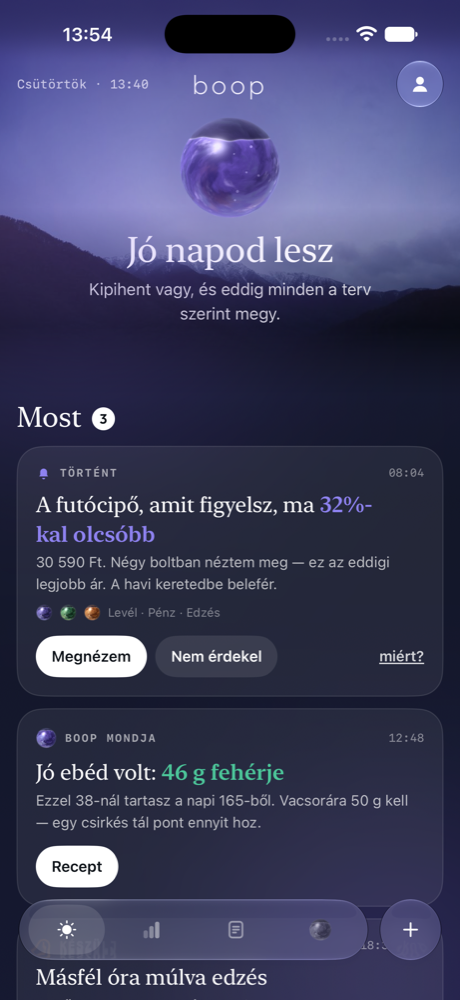
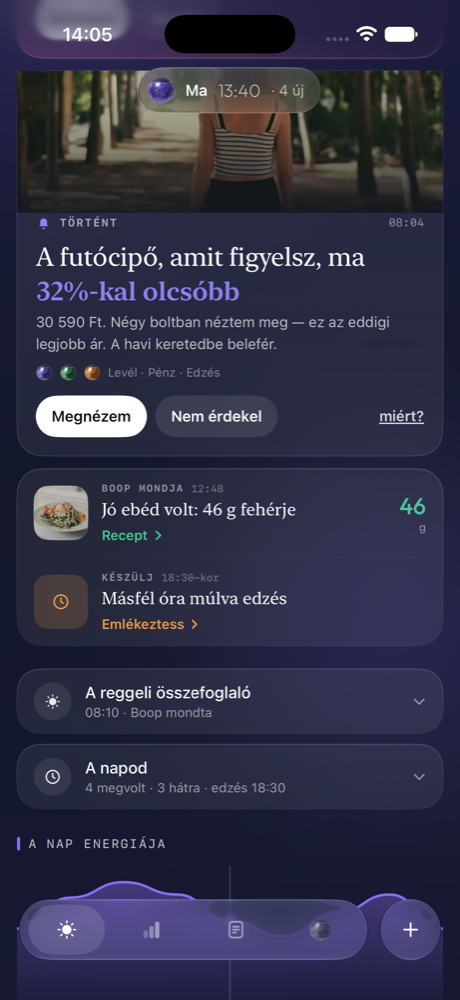
docs(boop-life): the wall gets a hierarchy — hero with a photo band, quiet compact rows (mezo-r36n9.33)
Owner: 'lista felsorolás feeling, nincs meg az a prémium feelingem'. Three measurable causes:
every card had the same width, radius and structure; none carried a photo although Képek
variant B allows a band on a proposal card; and the type had no range.

Now three weights: the check-in keeps its question shape · ONE hero with a 136 pt photo band
of the thing and 25 pt serif · the rest as compact rows inside a single card (52 pt thumbnail,
two lines, the number in weight on the right, the action as an inline link). A card whose
subject has no fitting photo keeps a tinted glyph tile.

diff --git a/docs/design_2.0/prototypes/boop-ios-spike/BoopSpike/EletFeed.swift b/docs/design_2.0/prototypes/boop-ios-spike/BoopSpike/EletFeed.swift
@@ -43,6 +43,12 @@ struct EFeedCard: Identifiable {
     let primary: String?      // the one action
     let secondary: String?
     let settled: String       // the line it leaves behind in "Ma történt"
+    /// Képek variant B: a photo of the THING. nil where nothing fits — a near-miss photo is worse than none.
+    var photo: String? = nil
+    var photoSq: String? = nil
+    /// When the card IS a number, the number gets the weight instead of hiding inside the sentence.
+    var big: String? = nil
+    var bigUnit: String = ""
     var hue: Color { areas.first.map { EMetric.all[$0].glow } ?? EMetric.all[0].glow }
 
     /// What Boop has to say at 13:40 on this invented day.
@@ -56,12 +62,14 @@ struct EFeedCard: Identifiable {
                   text: "A futócipő, amit figyelsz, ma *32%-kal olcsóbb*",
                   sub: "30 590 Ft. Négy boltban néztem meg — ez az eddigi legjobb ár. A havi keretedbe belefér.",
                   areas: [6, 5, 2], primary: "Megnézem", secondary: "Nem érdekel",
-                  settled: "Futócipő · megnézted"),
+                  settled: "Futócipő · megnézted",
+                  photo: "nap-seta-sq.jpg", photoSq: "nap-seta-sq.jpg", big: "30 590", bigUnit: "Ft"),
         EFeedCard(id: "ebed", kind: .reakcio, when: "12:48",
                   text: "Jó ebéd volt: *46 g fehérje*",
                   sub: "Ezzel 38-nál tartasz a napi 165-ből. Vacsorára 50 g kell — egy csirkés tál pont ennyit hoz.",
                   areas: [3], primary: "Recept", secondary: nil,
-                  settled: "Ebéd · 46 g fehérje"),
+                  settled: "Ebéd · 46 g fehérje",
+                  photo: "csirke-sq.jpg", photoSq: "csirke-sq.jpg", big: "46", bigUnit: "g"),
         EFeedCard(id: "edzes", kind: .keszulj, when: "18:30-kor",
                   text: "Másfél óra múlva edzés",
                   sub: "Felsőtest, 75 perc. Egyél valamit 17:00 körül, különben éhesen kezdesz.",
@@ -71,7 +79,8 @@ struct EFeedCard: Identifiable {
                   text: "Spar · *8 240 Ft*",
                   sub: "A banki üzenetedből, magától. Élelmiszer — a havi kereted 64%-ánál jársz.",
                   areas: [5], primary: nil, secondary: nil,
-                  settled: "Spar · 8 240 Ft"),
+                  settled: "Spar · 8 240 Ft",
+                  photo: "salata-sq.jpg", photoSq: "salata-sq.jpg", big: "8 240", bigUnit: "Ft"),
     ]
 }
 
@@ -83,6 +92,17 @@ struct EFeedCardView: View {
 
     var body: some View {
         VStack(alignment: .leading, spacing: 0) {
+            if let ph = c.photo, c.kind != .checkin {
+                Color.clear.frame(height: 136)
+                    .overlay { photo(ph).resizable().scaledToFill().saturation(0.8).brightness(-0.06) }
+                    .clipped()
+                    .overlay(LinearGradient(stops: [
+                        .init(color: .clear, location: 0),
+                        .init(color: gBase.opacity(0.35), location: 0.55),
+                        .init(color: Color(hex: 0x15181E).opacity(0.95), location: 1),
+                    ], startPoint: .top, endPoint: .bottom))
+                    .padding(.horizontal, -18).padding(.top, -18).padding(.bottom, 2)
+            }
             HStack(spacing: 8) {
                 if c.kind == .reakcio {
                     StillOrb(colors: EMetric.all[0].orb, size: 20, level: 0.85)
@@ -95,7 +115,7 @@ struct EFeedCardView: View {
                 Text(c.when).font(AuraFont.mono(11)).foregroundStyle(.white.opacity(0.45))
             }
 
-            EHueText(text: c.text, hue: c.hue, size: 21, opacity: 1, serif: true)
+            EHueText(text: c.text, hue: c.hue, size: c.photo != nil ? 25 : 21, opacity: 1, serif: true)
                 .padding(.top, 10)
 
             Text(c.sub).font(.system(size: 14)).lineSpacing(4).foregroundStyle(.white.opacity(0.7))
@@ -185,4 +205,62 @@ struct EFoldRow<C: View>: View {
         }
         .gCard(22)
     }
+}
+
+
+/// The quiet half of the wall: one hero above, these below — thumbnail, two lines, the number in weight.
+struct EFeedRowView: View {
+    let c: EFeedCard
+    var onAct: (String) -> Void
+
+    var body: some View {
+        HStack(spacing: 13) {
+            ZStack {
+                if let ph = c.photoSq {
+                    RoundedRectangle(cornerRadius: 14, style: .continuous).fill(.white.opacity(0.08))
+                        .overlay { photo(ph).resizable().scaledToFill().saturation(0.8).brightness(-0.06) }
+                        .clipShape(RoundedRectangle(cornerRadius: 14, style: .continuous))
+                        .overlay(RoundedRectangle(cornerRadius: 14, style: .continuous).stroke(.white.opacity(0.12)))
+                } else {
+                    RoundedRectangle(cornerRadius: 14, style: .continuous).fill(c.hue.opacity(0.18))
+                    EGlyph(c.kind.glyph, c.hue, size: 18)
+                }
+            }
+            .frame(width: 52, height: 52)
+
+            VStack(alignment: .leading, spacing: 4) {
+                HStack(spacing: 7) {
+                    Text(c.kind.label).font(AuraFont.mono(9.5, .bold)).tracking(1.3)
+                        .foregroundStyle(.white.opacity(0.5))
+                    Text(c.when).font(AuraFont.mono(10)).foregroundStyle(.white.opacity(0.35))
+                    Spacer(minLength: 0)
+                }
+                Text(stripped(c.text)).font(AuraFont.serif(16.5)).foregroundStyle(.white)
+                    .lineLimit(2).fixedSize(horizontal: false, vertical: true)
+                if let p = c.primary {
+                    Button { onAct(c.settled) } label: {
+                        HStack(spacing: 5) {
+                            Text(p).font(.system(size: 13, weight: .semibold)).foregroundStyle(c.hue)
+                            Image(systemName: "chevron.right").font(.system(size: 10, weight: .bold)).foregroundStyle(c.hue)
+                        }
+                        .padding(.top, 3).contentShape(Rectangle())
+                    }
+                    .buttonStyle(.plain)
+                }
+            }
+
+            Spacer(minLength: 6)
+
+            if let b = c.big {
+                VStack(alignment: .trailing, spacing: 0) {
+                    Text(b).font(.custom("Outfit", size: 22).weight(.medium)).foregroundStyle(c.hue)
+                        .lineLimit(1).minimumScaleFactor(0.7)
+                    Text(c.bigUnit).font(.system(size: 11)).foregroundStyle(.white.opacity(0.5))
+                }
+            }
+        }
+        .padding(.vertical, 13)
+    }
+
+    private func stripped(_ t: String) -> String { t.replacingOccurrences(of: "*", with: "") }
 }

diff --git a/docs/design_2.0/prototypes/boop-ios-spike/BoopSpike/EletMa.swift b/docs/design_2.0/prototypes/boop-ios-spike/BoopSpike/EletMa.swift
@@ -244,16 +244,36 @@ struct EletMa: View {
                 }
                 .padding(18).frame(maxWidth: .infinity, alignment: .leading).gCard(24)
             } else {
-                ForEach(live) { c in
-                    EFeedCardView(c: c) { line in
-                        withAnimation(.spring(response: 0.45, dampingFraction: 0.85)) {
-                            if line == "Rendben, most nem" { dismissed.insert(c.id) } else { acted[c.id] = line }
+                // the check-in is its own shape; then ONE hero with a photo band; then the quiet ones
+                // in a single card — a wall, not five equal boxes
+                if let q = live.first(where: { $0.kind == .checkin }) {
+                    EFeedCardView(c: q) { act(q, $0) }
+                }
+                let rest = live.filter { $0.kind != .checkin }
+                if let hero = rest.first {
+                    EFeedCardView(c: hero) { act(hero, $0) }
+                }
+                if rest.count > 1 {
+                    VStack(spacing: 0) {
+                        ForEach(Array(rest.dropFirst().enumerated()), id: \.element.id) { i, c in
+                            if i > 0 {
+                                Rectangle().fill(.white.opacity(0.07)).frame(height: 0.5).padding(.leading, 65)
+                            }
+                            EFeedRowView(c: c) { act(c, $0) }
                         }
-                        onToast(line)
                     }
+                    .padding(.horizontal, 16)
+                    .gCard(24)
                 }
             }
         }
+    }
+
+    private func act(_ c: EFeedCard, _ line: String) {
+        withAnimation(.spring(response: 0.45, dampingFraction: 0.85)) {
+            if line == "Rendben, most nem" { dismissed.insert(c.id) } else { acted[c.id] = line }
+        }
+        onToast(line)
     }
 
     // MARK: The day, folded away — reviewed in the morning, not stared at all day

diff --git a/docs/design_2.0/prototypes/boop-ios-spike/README.md b/docs/design_2.0/prototypes/boop-ios-spike/README.md
@@ -33,8 +33,11 @@
 > (teendő · történt · készülj · reakció), the check-in pinned while due, acted cards settling into "Ma történt",
 > an honest empty state, the morning briefing and the day's timeline folded into one row each, then the day's
 > energy curve and the cross-area observations. **The big 0–100 score leaves the home** — the orb stays without a
-> number. Amends the B2 "Ma = one timeline" decision. Files `Elet*.swift`; launch `-elet YES` plus
-> `-eletTab 0–3`, `-eletOpen penz|level|m0…m6`, `-eletHideg YES`. Screenshots: `elet-*.png`. Direction write-up:
+> number. Amends the B2 "Ma = one timeline" decision. **Round 7** gives the wall a hierarchy, because five equal
+> cards read as a list: the check-in keeps its own question shape, then **one hero** with a Képek variant-B photo
+> band and 25 pt type, then the quiet ones as **compact rows inside a single card** (52 pt thumbnail, two lines,
+> the number in weight on the right, the action as an inline link). No photo where nothing fits the meaning.
+> Files `Elet*.swift`; launch `-elet YES` plus `-eletTab 0–3`, `-eletOpen penz|level|m0…m6`, `-eletHideg YES`. Screenshots: `elet-*.png`. Direction write-up:
 > [`docs/superpowers/research/boop-life/03-ui-direction.md`](../../../superpowers/research/boop-life/03-ui-direction.md).
 > **Nothing here is built** — the owner decided on 2026-11-13 that the life dashboard ships after B6.
 

diff --git a/docs/superpowers/research/boop-life/03-ui-direction.md b/docs/superpowers/research/boop-life/03-ui-direction.md
@@ -256,6 +256,23 @@ the owner picked warm.
 Levél have none — every candidate in the old library contains a person. Filed as `mezo-r36n9.44`; the painted
 fallback carries them until then.
 
+### 3.10 Round 7 — the wall gets a hierarchy
+
+*"kicsit ilyen lista felsorolás feeling, nincs meg az a prémium feelingem."* Correct, and for three
+measurable reasons: every card had the same width, radius and structure; **none of them carried a photo**,
+though Képek variant B explicitly allows a photo band on a proposal card; and the type had no range.
+
+So the wall is now three weights, not one:
+
+1. **The check-in** keeps its own shape — a tinted question card, because it is a question, not a notice.
+2. **One hero**: a 136 pt photo band of *the thing*, fading into the glass, 25 pt serif, the contributing
+   areas' orbs, full actions.
+3. **The rest as compact rows inside a single card**: a 52 pt rounded thumbnail, the label and title on two
+   lines, the **number in weight** on the right in the area's hue, and the action as an inline link.
+
+A card whose subject has no fitting photo (the workout reminder) keeps a tinted glyph tile — the same rule as
+the row lists: a near-miss photo is worse than none.
+
 ## 4. The honest fork
 
 If the AI truly sees everything, the **conversation** may become the real home and the screens
